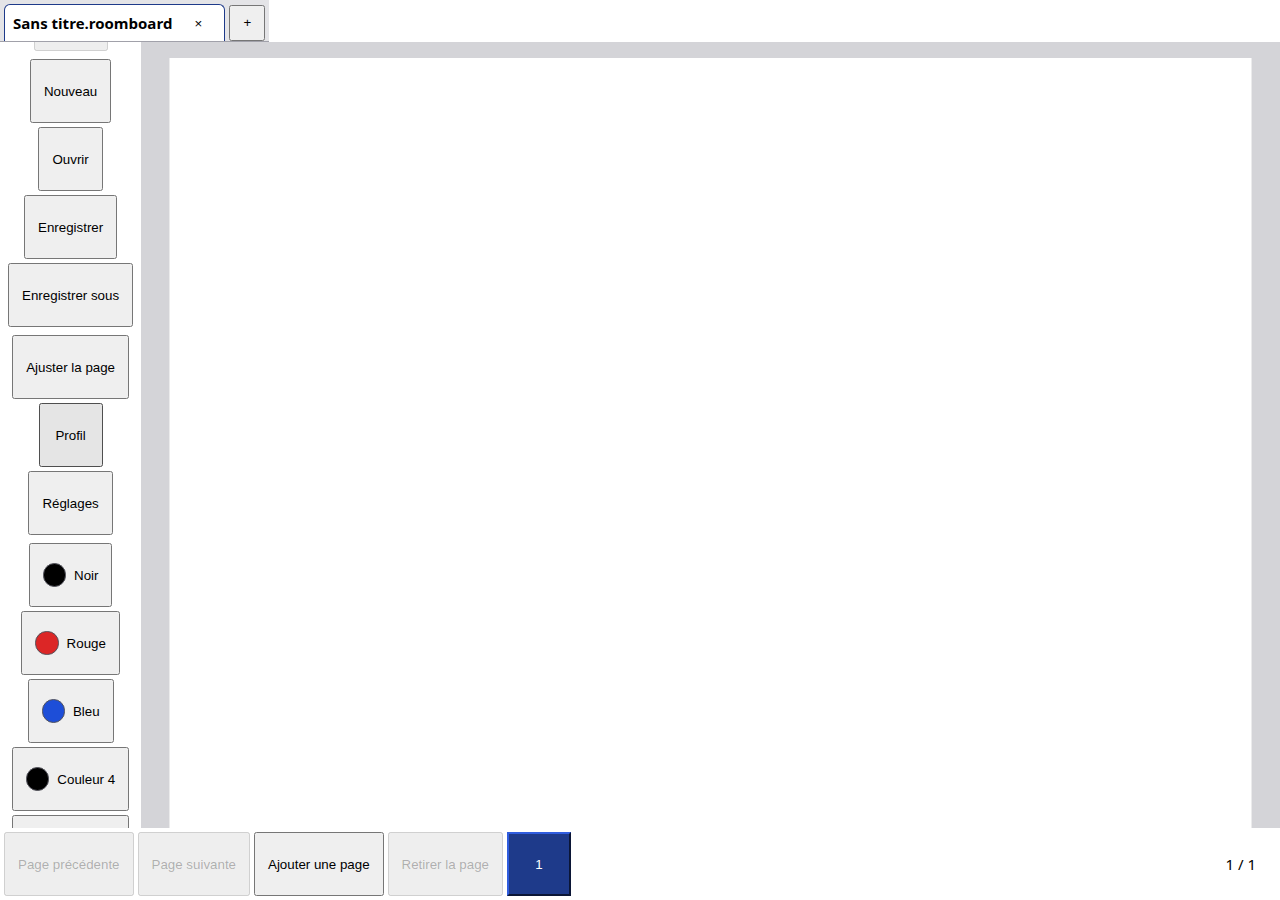
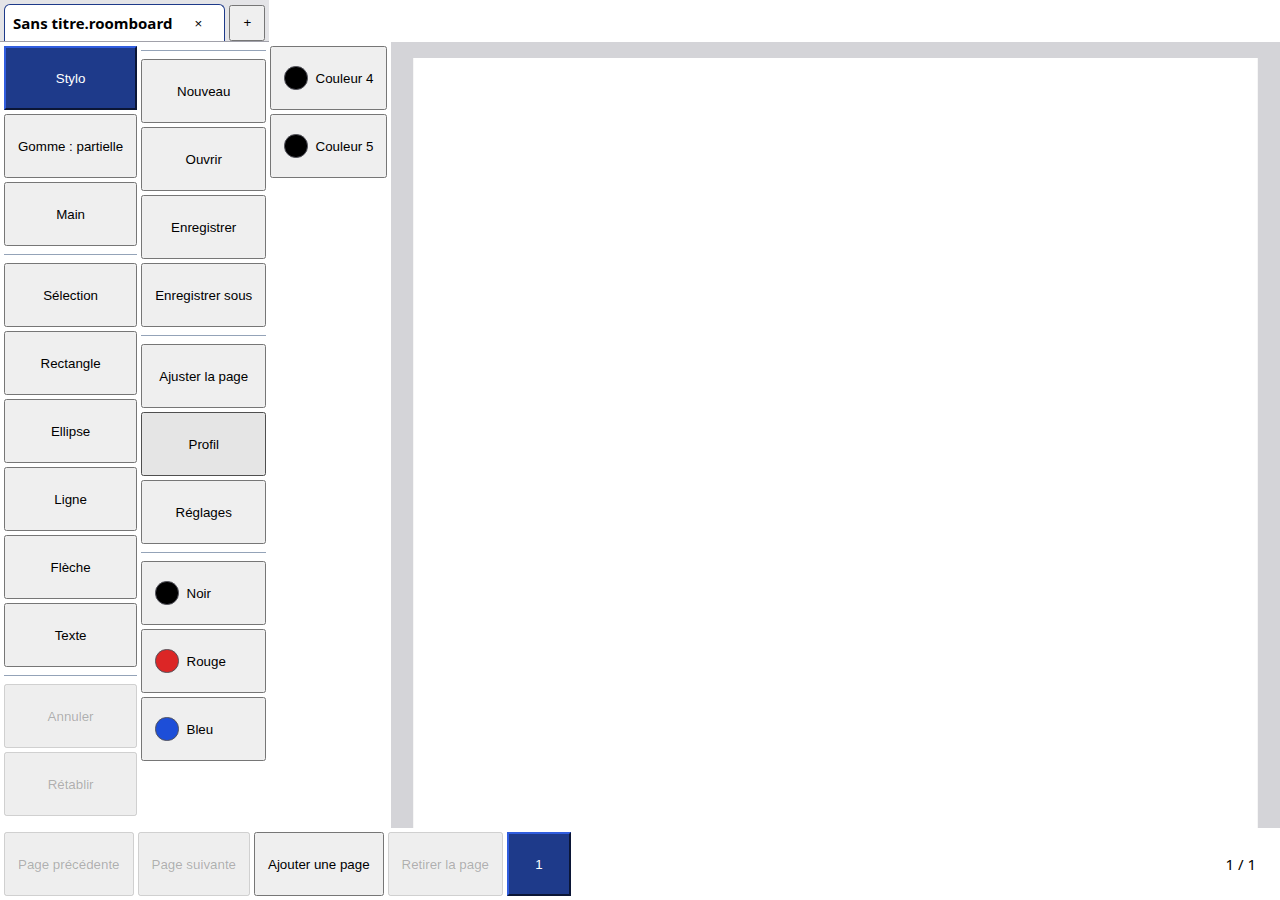
fix(ui): vertical bars wrap into columns instead of overflowing; regenerate C1 captures

Changed region(s): [[0.0, 0.0311, 0.3438, 0.9333], [0.9688, 0.0622, 1.0, 0.9022]]

diff --git a/apps/web/src/ui/rb.css b/apps/web/src/ui/rb.css
@@ -64,3 +64,7 @@
 .rb-editor button, .rb-editor select, .rb-editor input:not([type="checkbox"]) { min-height: var(--rb-btn-m); }
 .rb-editor input[type="checkbox"] { inline-size: calc(var(--rb-btn-m) / 2); block-size: calc(var(--rb-btn-m) / 2); }
 .rb-editor-actions { display: flex; flex-wrap: wrap; align-items: center; gap: var(--rb-gap); }
+/* Barre verticale (left/right) : prend la hauteur de sa case et passe en plusieurs colonnes quand elle en manque ;
+   chaque colonne a la largeur de son bouton le plus large (align-items: stretch). */
+.rb-slot > .rb-bar[data-dock="left"], .rb-slot > .rb-bar[data-dock="right"] { height: 100%; box-sizing: border-box; align-items: stretch; align-content: flex-start; }
+.rb-bar[data-dock="left"] .rb-sep, .rb-bar[data-dock="right"] .rb-sep { align-self: auto; border-inline-start: 0; border-block-start: 1px solid #94a3b8; margin: 4px 0; }
